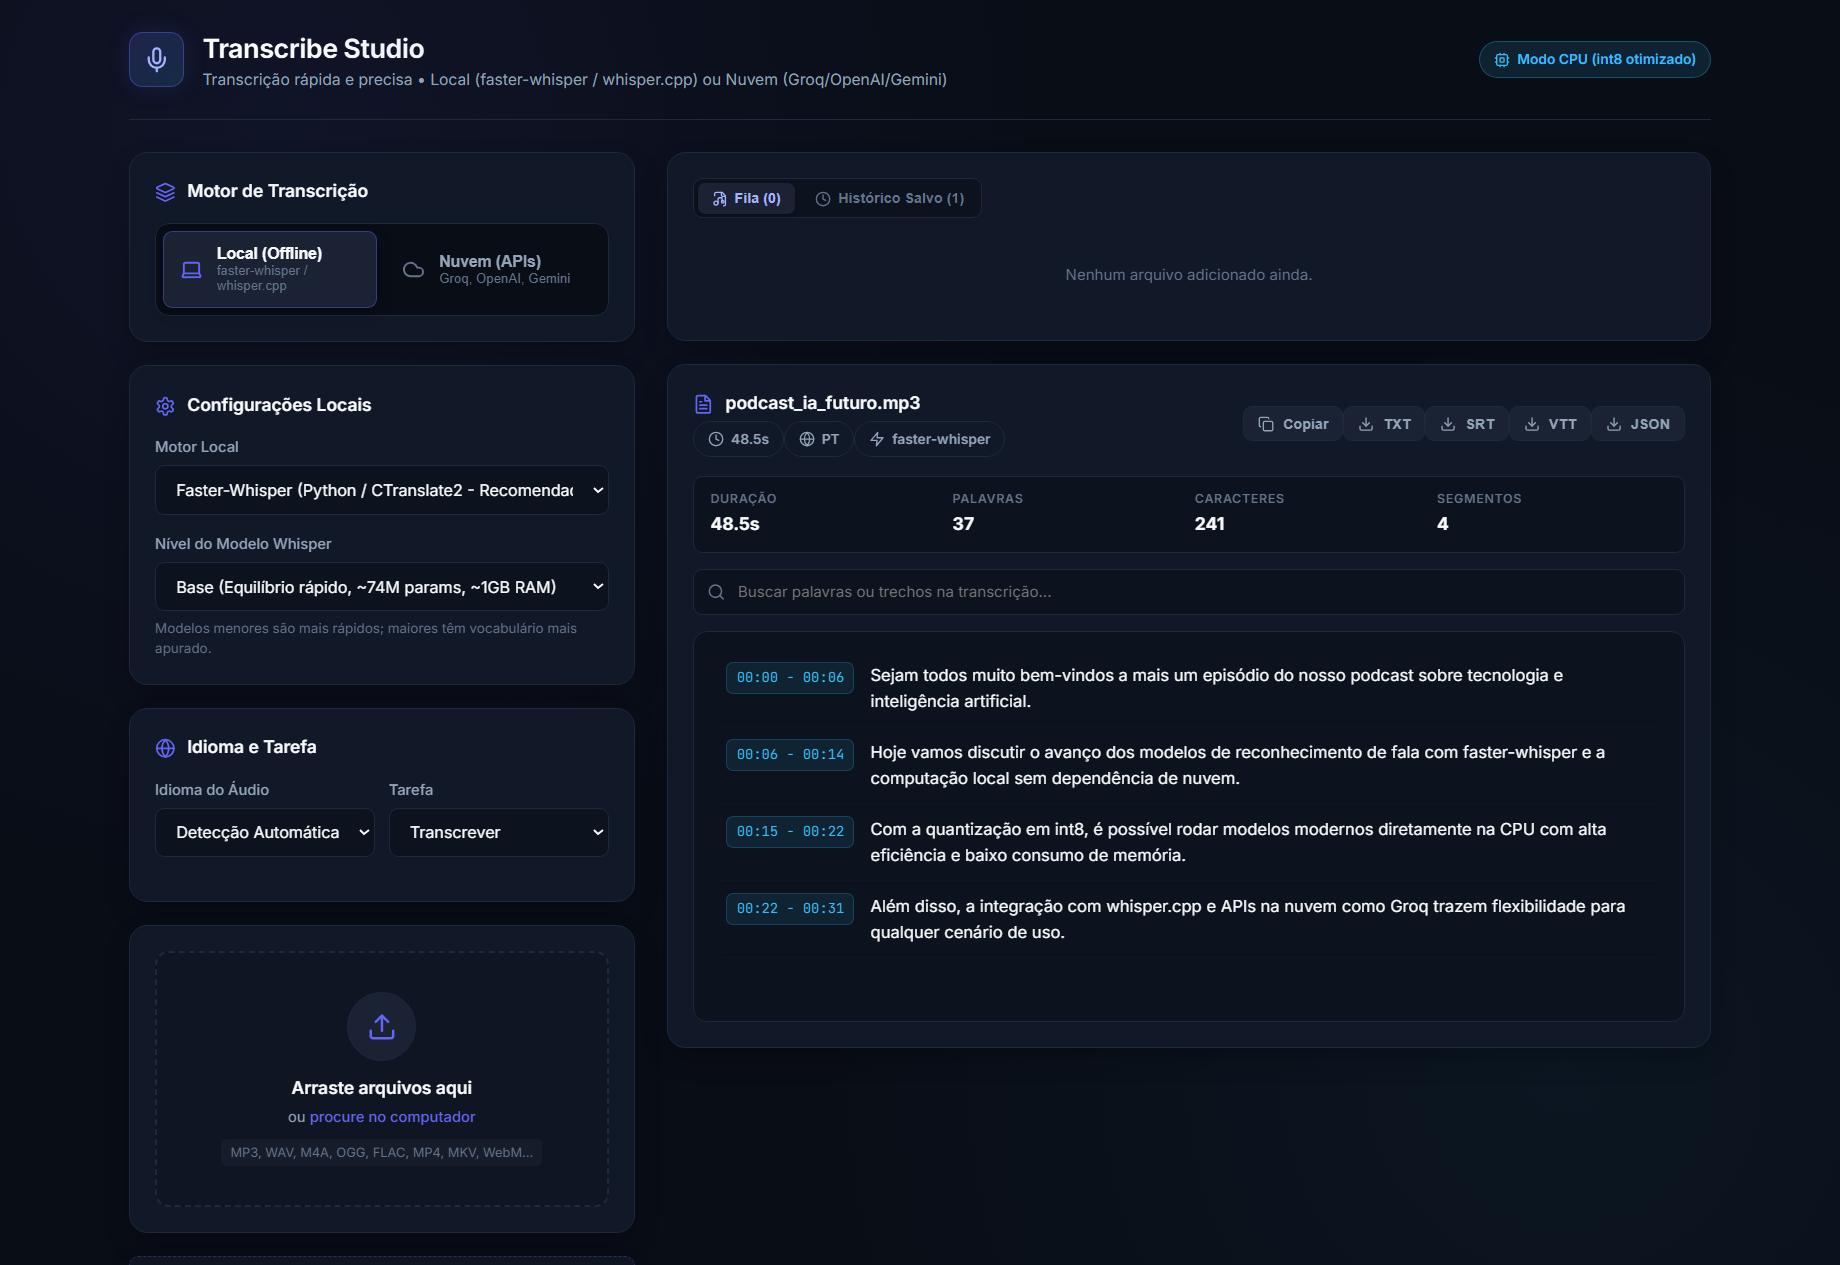
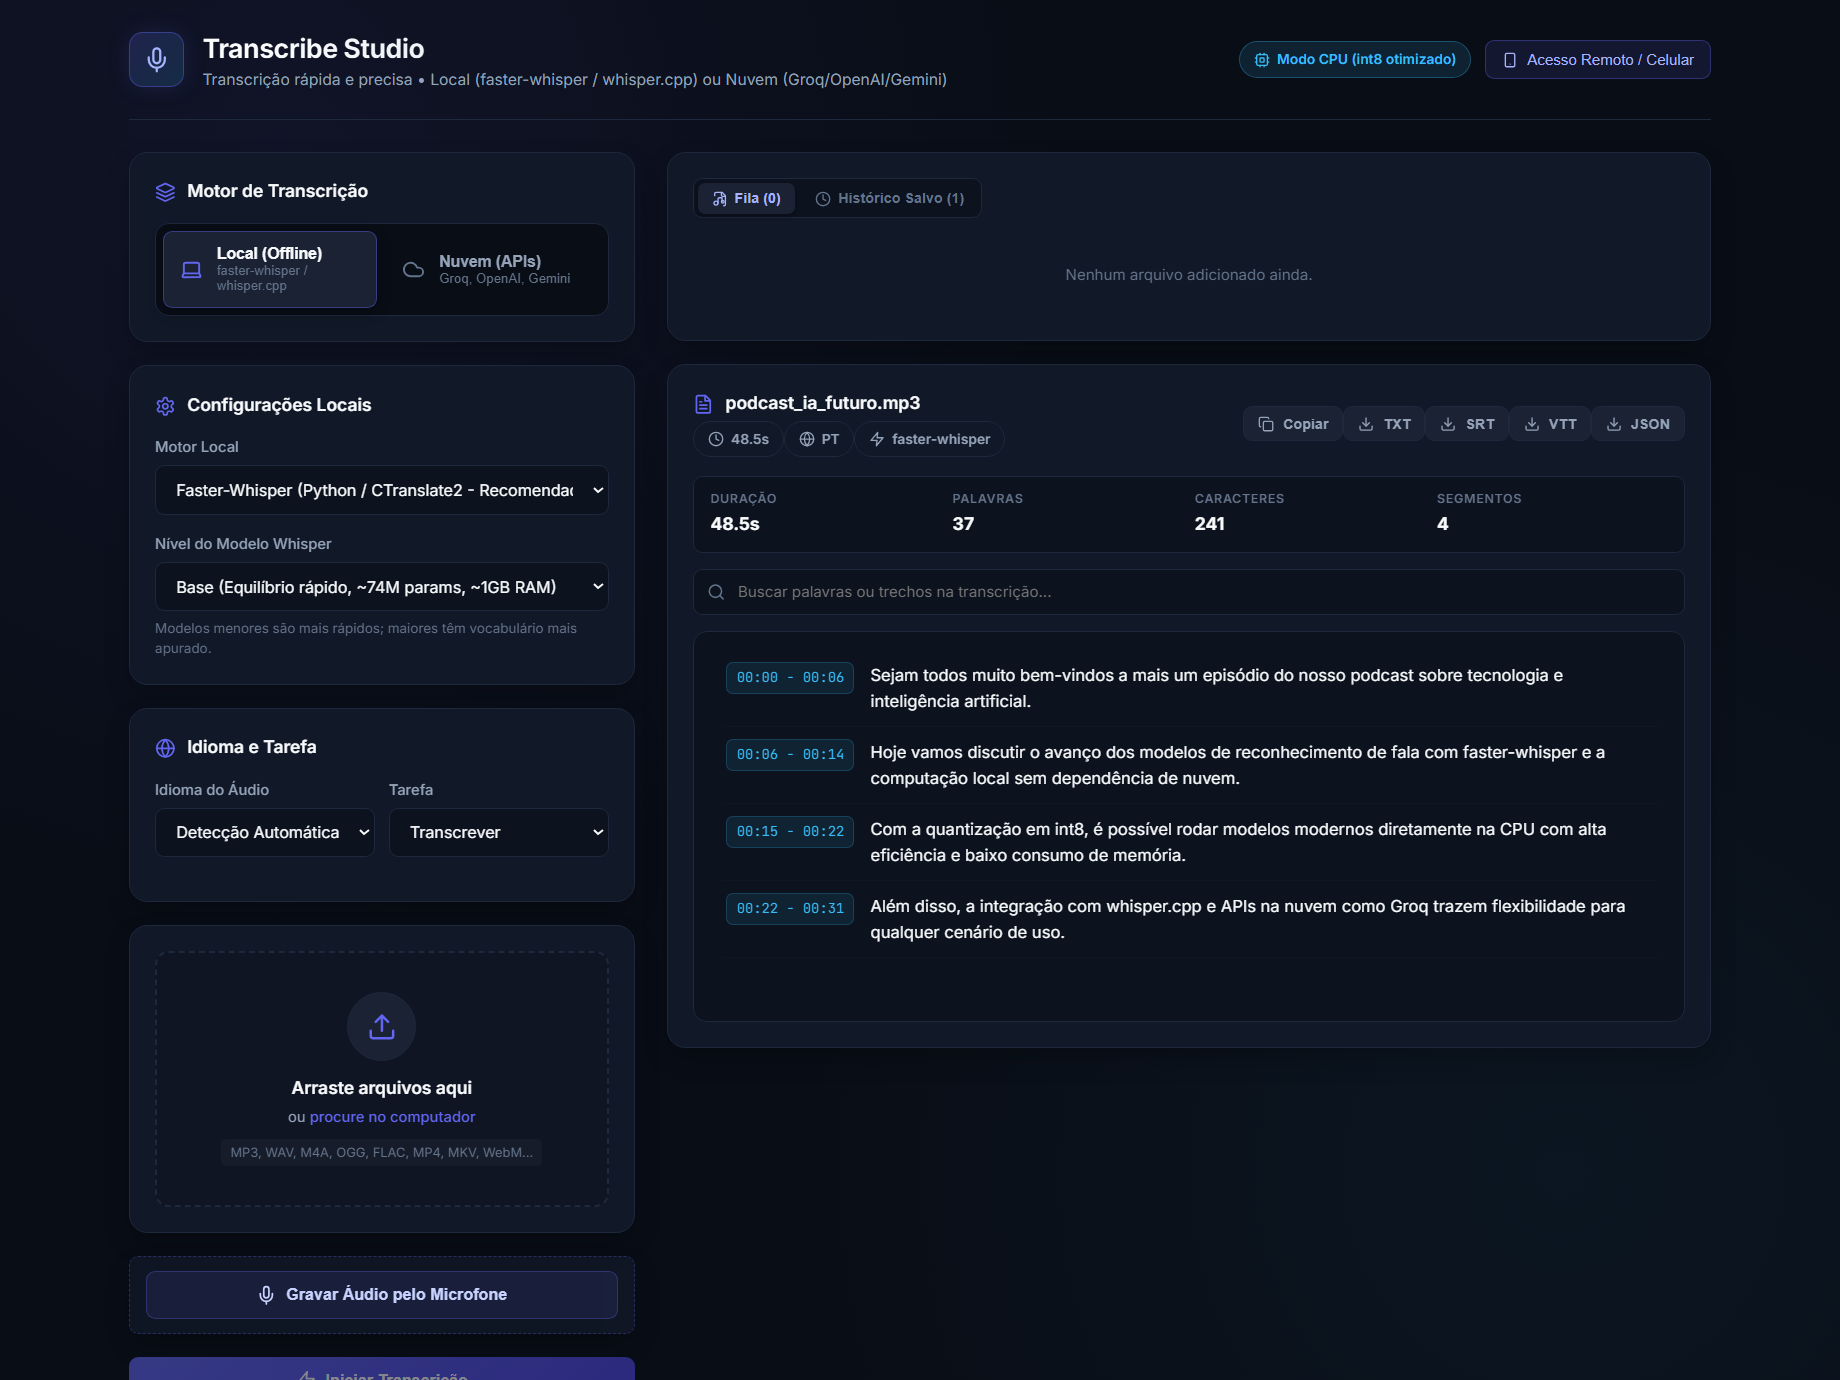
docs(screenshots): update screenshots with clean UI, remote access QR modal, and interactive CLI menu

diff --git a/app/static/js/app.js b/app/static/js/app.js
@@ -243,6 +243,10 @@ document.addEventListener("DOMContentLoaded", () => {
             document.querySelector(".app-container").appendChild(footer);
         }
 
+        if (params.get("remote")) {
+            await openRemoteModal();
+        }
+
         if (window.AppIcons) window.AppIcons.renderAll();
     }
 
@@ -888,6 +892,15 @@ document.addEventListener("DOMContentLoaded", () => {
             const resp = await apiRequest("/api/tunnel/info");
             if (!resp.ok) return;
             const data = await resp.json();
+
+            // Simula dados do túnel para captura em demo/screenshot
+            const urlParams = new URLSearchParams(window.location.search);
+            if (urlParams.get("demo")) {
+                data.tunnel_active = true;
+                data.public_url = "https://swift-echo-demo.trycloudflare.com";
+                data.requires_pin = true;
+                data.access_pin = "482 109";
+            }
 
             // Link do Túnel Cloudflare
             if (data.tunnel_active && data.public_url) {

diff --git a/scripts/take_screenshots.py b/scripts/take_screenshots.py
@@ -81,10 +81,12 @@ def main():
     try:
         preview_png = SCREENSHOTS_DIR / "preview.png"
         transcription_png = SCREENSHOTS_DIR / "transcription_view.png"
+        remote_png = SCREENSHOTS_DIR / "remote_modal.png"
         story_png = SCREENSHOTS_DIR / "story_status.png"
+        cli_png = SCREENSHOTS_DIR / "cli_menu.png"
         
-        # 1. 16:9 Feed Format (LinkedIn, Twitter, Facebook Feed) - 1600x1100 para capturar UI completa
-        print(f"[3/5] Capturando preview em {preview_png} (Feed 1600x1100)...")
+        # 1. 16:9 Feed Format - Preview limpo da UI completa
+        print(f"[3/7] Capturando preview em {preview_png} (Feed 1600x1300)...")
         edge_cmd1 = [
             EDGE_PATH,
             "--headless",
@@ -100,8 +102,8 @@ def main():
         subprocess.run(edge_cmd1, check=True)
         print(" -> preview.png capturado!")
 
-        # 2. Feed Format com Transcrição ativa e Player
-        print(f"[4/5] Capturando transcrição ativa em {transcription_png} (Feed 1600x1100)...")
+        # 2. Feed Format com Transcrição ativa e Player de Áudio
+        print(f"[4/7] Capturando transcrição ativa em {transcription_png} (Feed 1600x1200)...")
         edge_cmd2 = [
             EDGE_PATH,
             "--headless",
@@ -109,7 +111,7 @@ def main():
             "--no-first-run",
             "--no-default-browser-check",
             "--hide-scrollbars",
-            "--window-size=1600,1100",
+            "--window-size=1600,1200",
             "--force-device-scale-factor=1.15",
             f"--screenshot={str(transcription_png)}",
             "http://127.0.0.1:8008/?demo=1"
@@ -117,8 +119,25 @@ def main():
         subprocess.run(edge_cmd2, check=True)
         print(" -> transcription_view.png capturado!")
 
-        # 3. 9:16 Vertical Format para WhatsApp Status, Instagram Stories e Facebook Stories
-        print(f"[5/5] Capturando formato vertical Story/Status em {story_png} (9:16 vertical)...")
+        # 3. Feed Format com Modal de Acesso Remoto & QR Code Interativo
+        print(f"[5/7] Capturando modal de acesso remoto em {remote_png} (Feed 1600x1200)...")
+        edge_cmd_remote = [
+            EDGE_PATH,
+            "--headless",
+            "--disable-gpu",
+            "--no-first-run",
+            "--no-default-browser-check",
+            "--hide-scrollbars",
+            "--window-size=1600,1200",
+            "--force-device-scale-factor=1.15",
+            f"--screenshot={str(remote_png)}",
+            "http://127.0.0.1:8008/?demo=1&remote=1"
+        ]
+        subprocess.run(edge_cmd_remote, check=True)
+        print(" -> remote_modal.png capturado!")
+
+        # 4. 9:16 Vertical Format para WhatsApp Status, Instagram Stories e Facebook Stories
+        print(f"[6/7] Capturando formato vertical Story/Status em {story_png} (9:16 vertical)...")
         edge_cmd3 = [
             EDGE_PATH,
             "--headless",
@@ -133,6 +152,172 @@ def main():
         ]
         subprocess.run(edge_cmd3, check=True)
         print(" -> story_status.png capturado com sucesso!")
+
+        # 5. Captura da Janela do Menu CLI Interativo
+        print(f"[7/7] Gerando visual da CLI Interativa em {cli_png}...")
+        cli_html = BASE_DIR / "scripts" / "_cli_mockup.html"
+        cli_html.write_text("""<!DOCTYPE html>
+<html>
+<head>
+<meta charset="utf-8">
+<style>
+  body {
+    margin: 0;
+    padding: 40px;
+    background: #090d16;
+    display: flex;
+    justify-content: center;
+    align-items: center;
+    min-height: 100vh;
+    font-family: 'JetBrains Mono', Consolas, 'Courier New', monospace;
+    box-sizing: border-box;
+  }
+  .terminal-window {
+    width: 900px;
+    background: #0d121f;
+    border: 1px solid #1f293d;
+    border-radius: 12px;
+    box-shadow: 0 25px 60px rgba(0, 0, 0, 0.6), 0 0 30px rgba(99, 102, 241, 0.15);
+    overflow: hidden;
+  }
+  .title-bar {
+    background: #111827;
+    padding: 12px 18px;
+    display: flex;
+    align-items: center;
+    border-bottom: 1px solid #1f293d;
+  }
+  .buttons {
+    display: flex;
+    gap: 8px;
+  }
+  .dot {
+    width: 12px;
+    height: 12px;
+    border-radius: 50%;
+  }
+  .dot-red { background: #ef4444; }
+  .dot-yellow { background: #f59e0b; }
+  .dot-green { background: #10b981; }
+  .title {
+    flex: 1;
+    text-align: center;
+    font-size: 13px;
+    color: #94a3b8;
+    margin-right: 50px;
+    font-weight: 500;
+  }
+  .terminal-body {
+    padding: 32px 36px 40px;
+    font-size: 16px;
+    line-height: 1.8;
+  }
+  .header {
+    color: #06b6d4;
+    font-weight: bold;
+    text-decoration: underline;
+    font-size: 18px;
+    margin-bottom: 24px;
+    display: inline-block;
+  }
+  .menu-list {
+    display: flex;
+    flex-direction: column;
+    gap: 6px;
+    margin-bottom: 28px;
+  }
+  .menu-item {
+    padding: 8px 16px;
+    border-radius: 6px;
+    display: flex;
+    align-items: center;
+    color: #cbd5e1;
+    transition: all 0.15s ease;
+  }
+  .menu-item.active {
+    background: #1e3a8a;
+    color: #4ade80;
+    font-weight: bold;
+    box-shadow: 0 4px 12px rgba(30, 58, 138, 0.4);
+  }
+  .menu-item .icon {
+    margin-right: 12px;
+    font-size: 15px;
+  }
+  .menu-item.active .icon {
+    color: #4ade80;
+  }
+  .menu-item .exit-icon {
+    color: #ef4444;
+  }
+  .menu-item.exit {
+    color: #f87171;
+  }
+  .hint {
+    color: #64748b;
+    font-size: 13px;
+    margin-top: 10px;
+    border-top: 1px dashed #1f293d;
+    padding-top: 16px;
+  }
+</style>
+</head>
+<body>
+  <div class="terminal-window">
+    <div class="title-bar">
+      <div class="buttons">
+        <div class="dot dot-red"></div>
+        <div class="dot dot-yellow"></div>
+        <div class="dot dot-green"></div>
+      </div>
+      <div class="title">Transcribe Studio — Terminal CLI</div>
+    </div>
+    <div class="terminal-body">
+      <div class="header">🗂 Transcribe Studio — Menu Principal</div>
+      <div class="menu-list">
+        <div class="menu-item active">
+          <span class="icon">◈</span>
+          <span>1. Modo Local Pessoal (Apenas neste computador - Padrão)</span>
+        </div>
+        <div class="menu-item">
+          <span class="icon">◈</span>
+          <span>2. Instância Pública / Amigos (Rede ou VPS com domínio)</span>
+        </div>
+        <div class="menu-item">
+          <span class="icon">◈</span>
+          <span>3. Túnel Cloudflare (Acesso externo rápido sem IP fixo / Celular)</span>
+        </div>
+        <div class="menu-item exit">
+          <span class="icon exit-icon">✕</span>
+          <span>4. Sair</span>
+        </div>
+      </div>
+      <div class="hint">
+        (Use as setas ↑/↓ para navegar, Enter para confirmar ou 1-4 para atalho)
+      </div>
+    </div>
+  </div>
+</body>
+</html>""", encoding="utf-8")
+        
+        edge_cmd_cli = [
+            EDGE_PATH,
+            "--headless",
+            "--disable-gpu",
+            "--no-first-run",
+            "--no-default-browser-check",
+            "--hide-scrollbars",
+            "--window-size=1060,560",
+            "--force-device-scale-factor=1.2",
+            f"--screenshot={str(cli_png)}",
+            f"file:///{str(cli_html).replace('\\\\', '/')}"
+        ]
+        subprocess.run(edge_cmd_cli, check=True)
+        try:
+            cli_html.unlink()
+        except Exception:
+            pass
+        print(" -> cli_menu.png capturado com sucesso!")
 
 
     finally:

diff --git a/app/services/history.py b/app/services/history.py
@@ -105,6 +105,26 @@ class HistoryService:
             except Exception:
                 continue
 
+        # Se existir demo_transcription na raiz, inclui como item de demonstração
+        root_demo = HISTORY_DIR / "demo_transcription.json"
+        if root_demo.exists() and not any(it["id"] == "demo_transcription" for it in items):
+            try:
+                with open(root_demo, "r", encoding="utf-8") as f:
+                    data = json.load(f)
+                    items.append({
+                        "id": data.get("id"),
+                        "filename": data.get("filename", "Sem nome"),
+                        "saved_at": data.get("saved_at", ""),
+                        "timestamp": data.get("timestamp", 0),
+                        "duration": data.get("duration", 0),
+                        "language": data.get("language", "auto"),
+                        "provider": data.get("provider", "local"),
+                        "model": data.get("model", ""),
+                        "has_audio": bool(data.get("audio_file"))
+                    })
+            except Exception:
+                pass
+
         # Ordena pelo timestamp decrescente
         items.sort(key=lambda x: x.get("timestamp", 0), reverse=True)
         return items
@@ -120,7 +140,14 @@ class HistoryService:
         file_path = target_dir / f"{safe_job}.json"
 
         if not file_path.exists():
-            return None
+            if safe_job == "demo_transcription":
+                root_fallback = HISTORY_DIR / f"{safe_job}.json"
+                if root_fallback.exists():
+                    file_path = root_fallback
+                else:
+                    return None
+            else:
+                return None
 
         try:
             with open(file_path, "r", encoding="utf-8") as f:

diff --git a/README.md b/README.md
@@ -41,6 +41,12 @@
 - **Detecção de Rede Wi-Fi (LAN)**: Descobre seu IP local automaticamente para uso em rede doméstica com latência zero.
 - **Gravação Direta pelo Microfone do Smartphone**: O HTTPS provido pelo túnel permite gravação de voz diretamente no navegador do celular (Chrome/Safari).
 
+<div align="center">
+
+![Acesso Remoto com QR Code](docs/screenshots/remote_modal.png)
+
+</div>
+
 ### 🤖 API REST Pública v1 (`/api/v1`)
 - Endpoints padronizados para bots de Discord, Telegram, automações e desenvolvedores:
   - `POST /api/v1/transcribe`: Transcrição de arquivos com retornos em JSON, TXT, SRT ou VTT.
@@ -57,18 +63,14 @@
 
 ## 🚀 Como Iniciar
 
-### No Windows (Menu Interativo)
-Dê dois cliques no arquivo:
-```cmd
-run.bat
-```
-Você verá um menu simples:
-```text
-  [1] Local Pessoal (Apenas neste computador - Padrão)
-  [2] Compartilhado / Celular (Túnel Cloudflare HTTPS com PIN)
-  [3] Instância Pública Aberta (Estilo Cobalt, histórico efêmero)
-  [4] Sair
-```
+### Menu Interativo Moderno (CLI com Setas)
+Tanto pelo duplo clique no `run.bat` quanto executando `python run.py`, você tem uma interface interativa de terminal com cores e navegação por setas:
+
+<div align="center">
+
+![Menu Interativo CLI](docs/screenshots/cli_menu.png)
+
+</div>
 
 ### Pela Linha de Comando (CLI)
 ```bash
